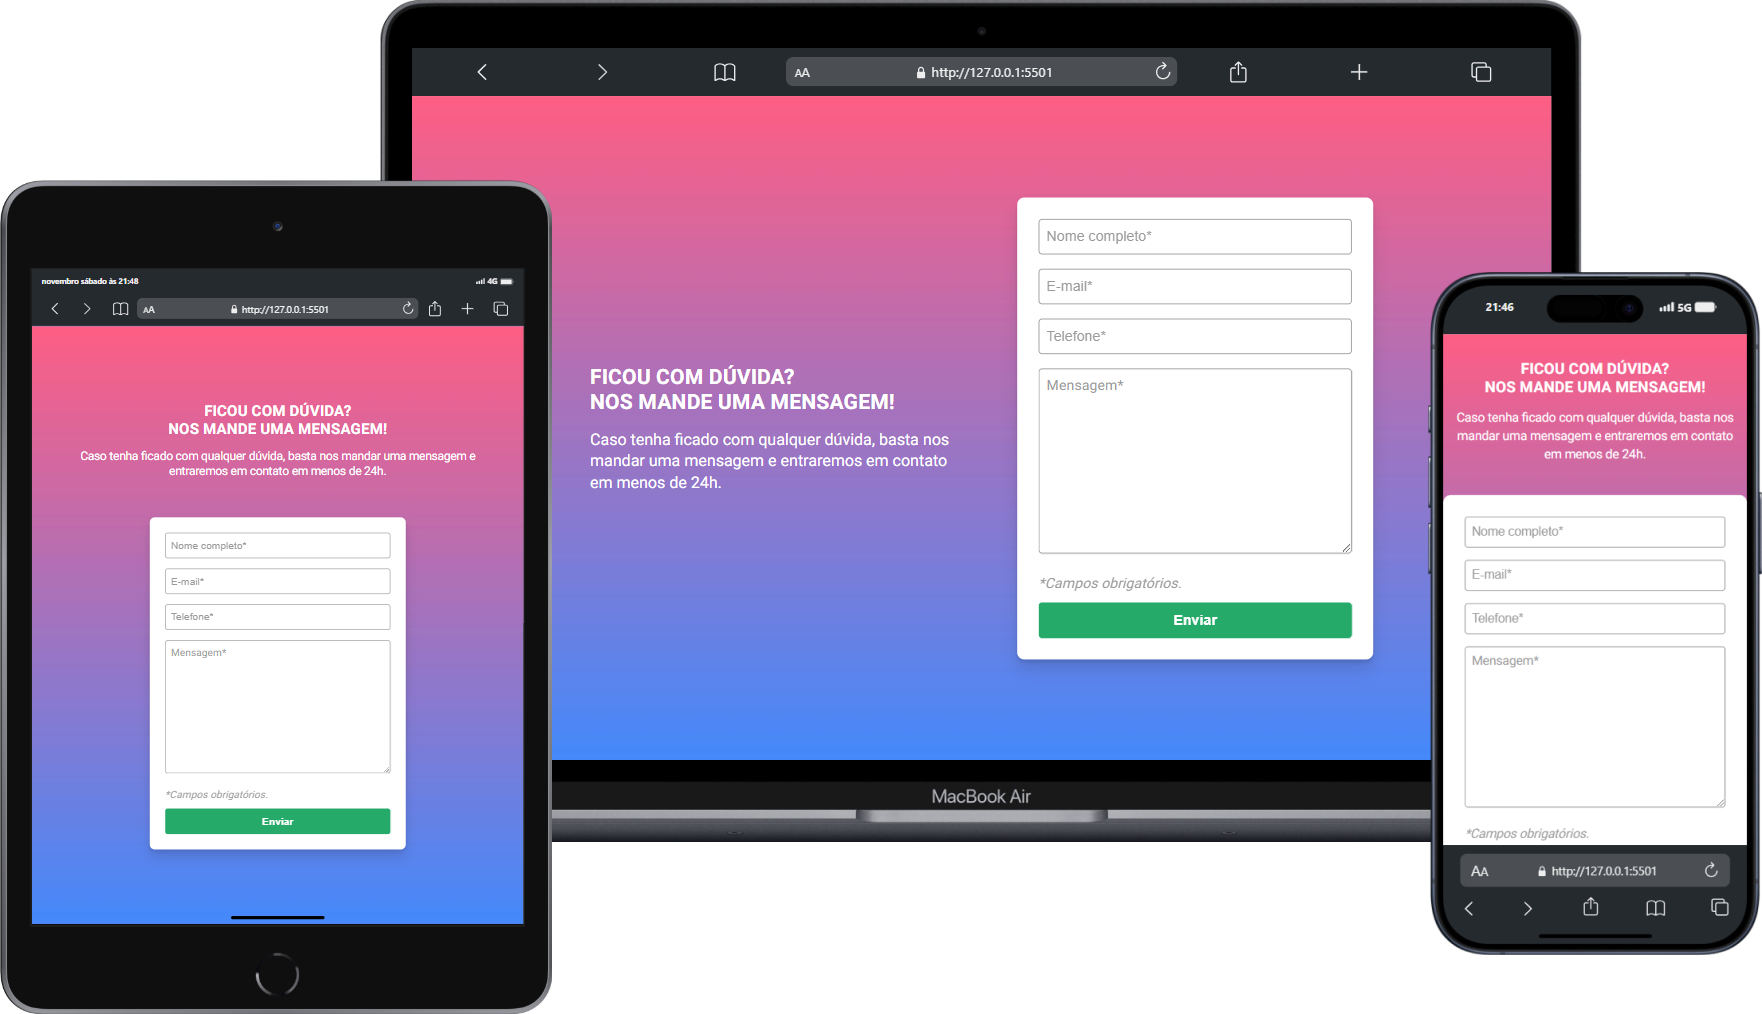
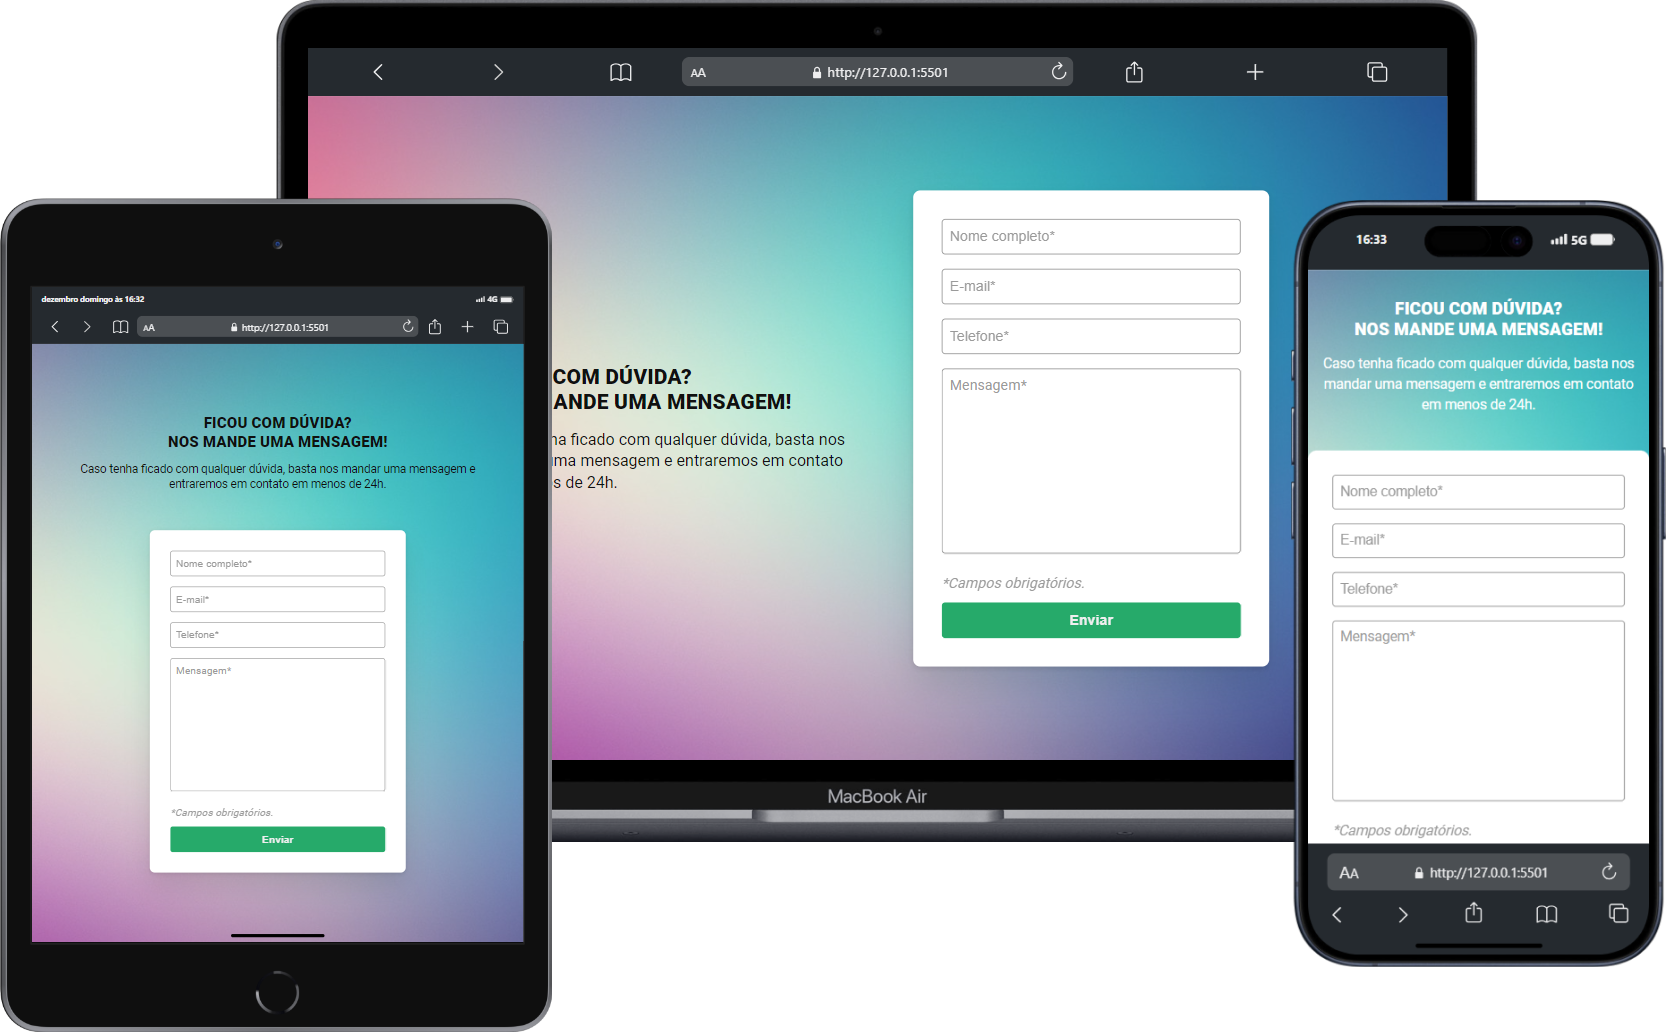
:recycle: refactor: added a new background image, modified some text colors and update readme.md

diff --git a/src/css/style.css b/src/css/style.css
@@ -1,6 +1,6 @@
 body {
-    background: #141414;
-    background-size: contain;
+    background: url('../img/bg.jpg') no-repeat center center fixed;
+    background-size: cover;
     width: 100%;
     height: 100vh;
     display: flex;
@@ -26,32 +26,32 @@ body {
 
 .info h1 {
     font-size: 2.4rem;
-    font-weight: 700;
+    font-weight: 800;
     text-transform: uppercase;
-    color: var(--light200);
+    color: var(--dark10);
 }
 
 .info p {
     font-size: 1.8rem;
     line-height: 2.4rem;
-    color: var(--light200);
+    color: var(--dark10);
 }
 
 .form-box {
     width: 40rem;
     display: flex;
     flex-direction: column;
-    background: var(--dark10);
+    background: #fff;
     padding: 3.2rem;
     border-radius: .8rem;
-    box-shadow: inset 0 2px 10px rgba(0, 0, 0, .35), inset 0 -2px 10px rgba(0, 0, 0, .35);
+    box-shadow: 0 20px 40px rgba(0, 0, 0, .1), 0 2px 6px rgba(0, 0, 0, .1);
 }
 
 .form-box:nth-of-type(2) {
     text-align: center;
-    color: var(--dark90);
+    color: var(--dark30);
     gap: .8rem;
-    box-shadow: inset 0 2px 6px rgba(0, 0, 0, .2), inset 0 -2px 6px rgba(0, 0, 0, .2);
+    box-shadow: 0 20px 40px rgba(0, 0, 0, .1), 0 2px 6px rgba(0, 0, 0, .1);
 }
 
 .form-box:nth-of-type(2) h2 {
@@ -169,6 +169,11 @@ body {
         max-width: 100%;
         margin: 3.2rem 0 0;
         gap: 4rem;
+    }
+
+    .info h1,
+    .info p {
+        color: #fff;
     }
 
     .info h1 {

diff --git a/src/css/root.css b/src/css/root.css
@@ -6,6 +6,6 @@
     --dark10: #101010;
     
     --error: #ff0000;
-    --correct: #00ff40;
+    --correct: #00c531;
     --button: #26aa6a;
 }

diff --git a/readme.md b/readme.md
@@ -2,14 +2,13 @@
 <h1>Validação de Formulário</h1>
 
 ### 📝 Quest "HTML, CSS e JavaScritp Intermediário"
-</div>
 
 <br>
 
 ### 📜 Descrição:
-<p align="justify">
 Esse projeto foi desenvolvido no curso DevQuest Frontend, com intenção de aprimorar as habilidades adquiridas em HTML, CSS e JavaScript. O projeto consiste em um formulário de mensagem onde é feita a validação dos campos, e caso algum campo não esteja preenchido corretamente, o formulário apresentará a mensagem de campo obrigatório.
-</p>
+
+<br>
 
 ### 🚀 Tecnologias Utilizadas:
 <div style="display:block">
@@ -18,6 +17,9 @@ Esse projeto foi desenvolvido no curso DevQuest Frontend, com intenção de apri
     <img src="https://img.shields.io/badge/CSS-0c1014?style=for-the-badge&logo=javascript">
 </div>
 
+<br>
 
 ### 📸 Preview:
 <img src="./src/img/preview.png">
+
+</div>
